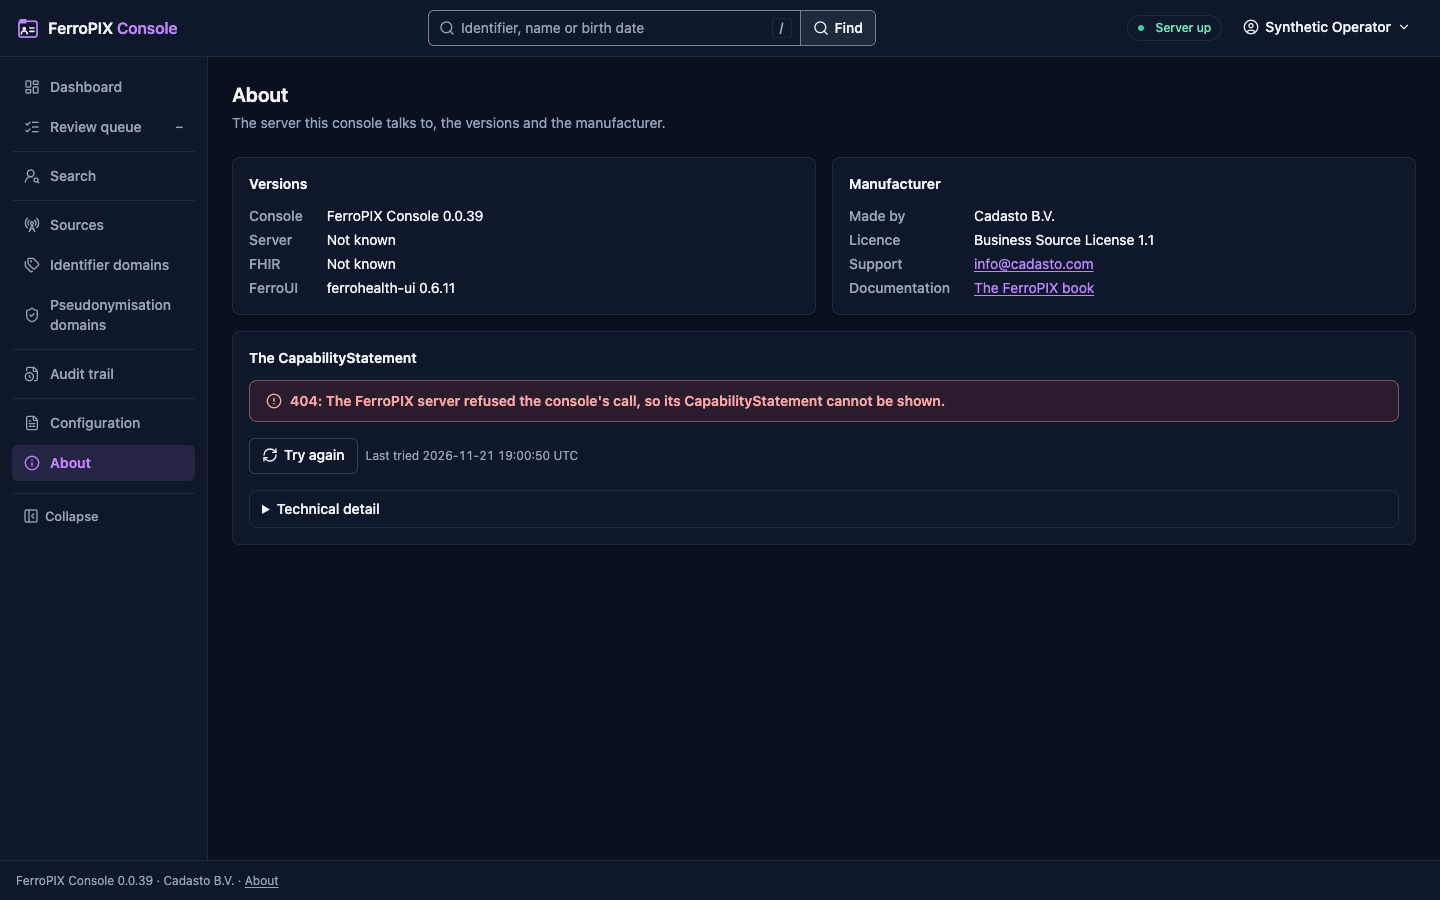
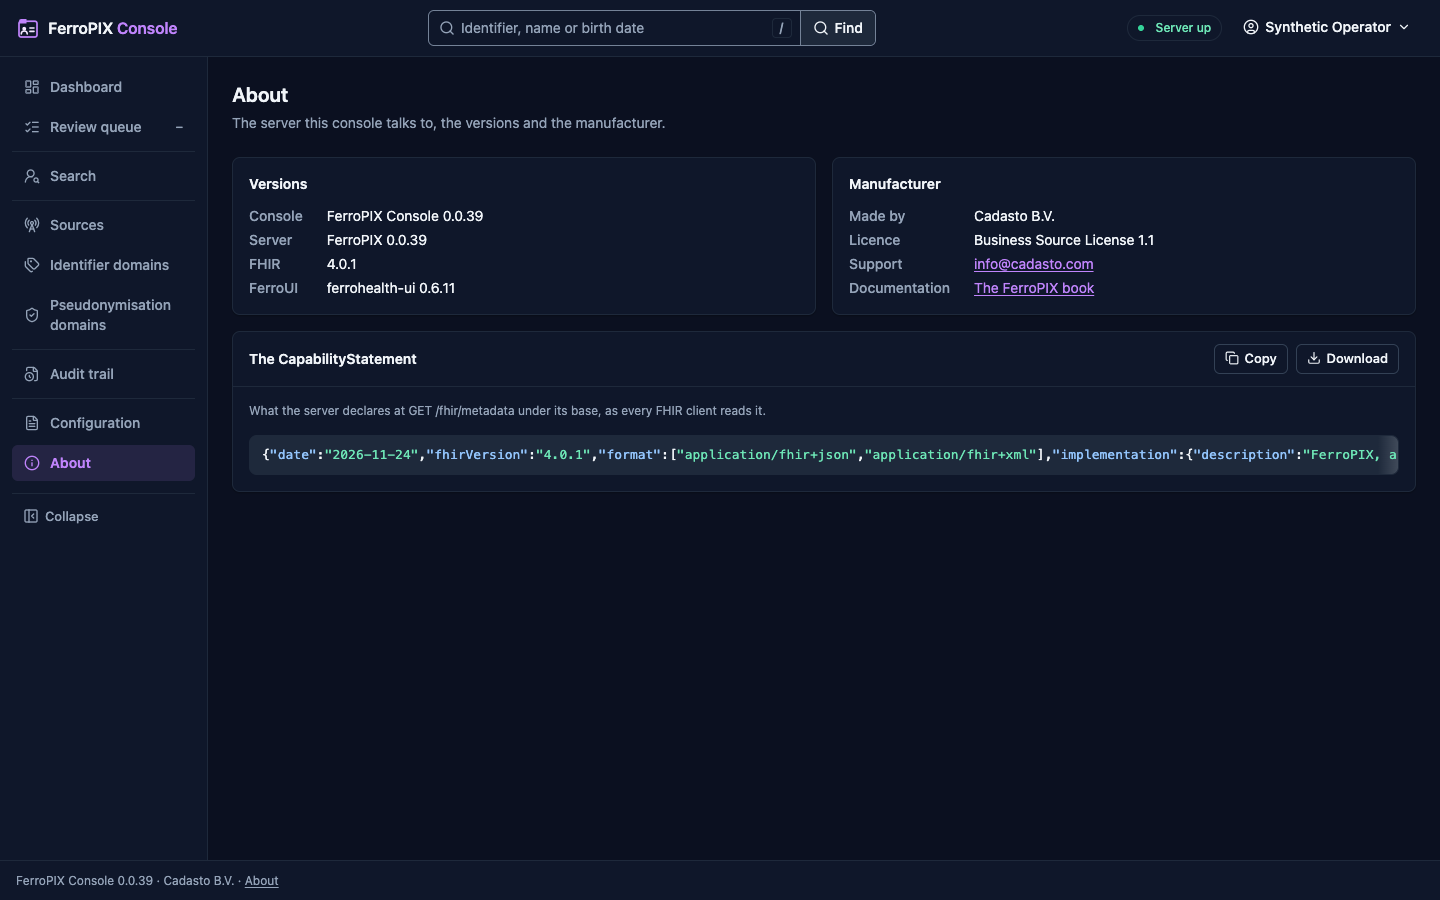
fix(console): draw the CapabilityStatement in the About journey and screenshot (#679) (#790)
* fix(console): draw the CapabilityStatement in the About journey and screenshot (#679)

The journeys' stand-in for the server answered GET /fhir/metadata with 404,
so the book's About screenshot drew the refusal. The stand-in now serves the
statement the server declares, held to the server's by its suite, and a
journey fails when About draws a refusal there.

* fix(console): keep the CapabilityStatement line free of brackets, and keep the declared software name in the pseudo-locale (#679)

Changed region(s): [[0.1562, 0.3733, 0.9688, 0.5289], [0.2188, 0.2489, 0.3125, 0.3111], [0.1875, 0.56, 0.2812, 0.5911]]

diff --git a/tools/ferropix-testkit/tests/it/journeys/stack.rs b/tools/ferropix-testkit/tests/it/journeys/stack.rs
@@ -10,8 +10,10 @@
 //! [`Server::Refusing`] it refuses every other route with `404`, so every
 //! screen draws its refused state; with [`Server::Filled`] it answers the
 //! operator API routes the screens read with the synthetic documents under
-//! `fixtures/operator/`, so every screen draws its filled state. No
-//! specification governs the stack: our own design, after FerroBRIDGE's.
+//! `fixtures/operator/`, and `GET /fhir/metadata` with the server's own
+//! `CapabilityStatement` at the workspace version, so every screen draws its
+//! filled state. No specification governs the stack: our own design, after
+//! FerroBRIDGE's.
 
 use std::collections::BTreeMap;
 
@@ -98,6 +100,20 @@ pub(crate) fn document(name: &str) -> String {
     std::fs::read_to_string(&file).unwrap_or_else(|error| panic!("reading {file}: {error}"))
 }
 
+/// The `CapabilityStatement` the server declares, from
+/// `fixtures/operator/capability-statement.json` (held to the server's by
+/// its suite), naming the workspace version as the server does.
+#[expect(
+    clippy::disallowed_types,
+    reason = "the test seam: the statement is read as a JSON value to set its version"
+)]
+fn capability_statement() -> String {
+    let mut statement: serde_json::Value = serde_json::from_str(&document("capability-statement"))
+        .expect("the capability statement is JSON");
+    statement["software"]["version"] = serde_json::Value::from(env!("CARGO_PKG_VERSION"));
+    statement.to_string()
+}
+
 /// What the stand-in for the FerroPIX server answers.
 #[derive(Debug, Clone, Copy, PartialEq, Eq)]
 pub(crate) enum Server {
@@ -165,6 +181,15 @@ impl Stack {
                     .mount(&server)
                     .await;
             }
+            Mock::given(method("GET"))
+                .and(path("/fhir/metadata"))
+                .respond_with(
+                    ResponseTemplate::new(200)
+                        .insert_header("content-type", "application/fhir+json")
+                        .set_body_string(capability_statement()),
+                )
+                .mount(&server)
+                .await;
         }
         let listener = TcpListener::bind("127.0.0.1:0")
             .await

diff --git a/tools/ferropix-testkit/tests/it/journeys/about.rs b/tools/ferropix-testkit/tests/it/journeys/about.rs
@@ -1,0 +1,54 @@
+// SPDX-FileCopyrightText: Cadasto B.V.
+// SPDX-License-Identifier: BUSL-1.1
+
+//! About draws the server's `CapabilityStatement` (HL7 FHIR R4, the REST
+//! interaction `capabilities`) with the server and FHIR versions it
+//! declares, and no refusal, when the server answers `GET /fhir/metadata`.
+//! No specification governs the console: our own design.
+
+use thirtyfour::prelude::*;
+
+use crate::journeys::browser::with_journey;
+use crate::journeys::journeys_enabled;
+use crate::journeys::sign_in::sign_in;
+use crate::journeys::stack::{Server, Stack};
+
+/// What the page's main content says: one line per finding, empty when
+/// About draws the statement, its two versions and no `Not known`.
+const DRAWN: &str = r"
+const main = document.querySelector('main');
+const text = main.innerText;
+const findings = [];
+if (main.querySelector('a[href=\'/about/capability-statement.json\']') === null) {
+  findings.push('no Download of the CapabilityStatement');
+}
+for (const wanted of arguments[0].split('\n')) {
+  if (!text.includes(wanted)) { findings.push('the page does not say ' + wanted); }
+}
+if (text.includes('Not known')) { findings.push('the page says Not known'); }
+if (main.querySelector('[role=alert]') !== null) { findings.push('the page draws an alert'); }
+return findings.join('\n');
+";
+
+#[tokio::test(flavor = "multi_thread", worker_threads = 2)]
+async fn about_draws_the_capability_statement_the_server_declares() {
+    if !journeys_enabled() {
+        return;
+    }
+    let stack = Stack::start_with(Server::Filled).await;
+    with_journey(async |journey| {
+        sign_in(journey, &stack).await;
+        journey.open(&stack.url("/about")).await;
+        journey.element(By::Css("h1"), "the page's heading").await;
+        let wanted = format!(
+            "FerroPIX {}\n4.0.1\n\"resourceType\"",
+            env!("CARGO_PKG_VERSION")
+        );
+        let findings = journey
+            .evaluate_with(DRAWN, wanted)
+            .await
+            .expect("the page reads its content");
+        assert!(findings.is_empty(), "About: {findings}");
+    })
+    .await;
+}

diff --git a/app/ferropix-server/tests/it/capability.rs b/app/ferropix-server/tests/it/capability.rs
@@ -530,3 +530,34 @@ async fn the_statement_renders_in_json_and_xml_and_refuses_any_other_format_406(
         assert_eq!("error", outcome["issue"][0]["severity"], "{uri}");
     }
 }
+
+/// The console journeys' copy of the statement, which their stand-in for
+/// the server answers `GET /fhir/metadata` with.
+const JOURNEY_STATEMENT: &str = concat!(
+    env!("CARGO_MANIFEST_DIR"),
+    "/../../tools/ferropix-testkit/fixtures/operator/capability-statement.json"
+);
+
+/// The issuer the journeys' copy names in place of the test issuer.
+const JOURNEY_ISSUER: &str = "http://localhost:8180";
+
+#[tokio::test]
+async fn the_console_journeys_serve_the_statement_the_server_declares() {
+    let issuer = Issuer::start().await;
+    let secrets = Secrets::new();
+    let (app, _, _spool) = application(settings(&issuer, &secrets)).await;
+    let (status, _, text) = get(&app, "/fhir/metadata", None).await;
+    assert_eq!(StatusCode::OK, status);
+    let journeys: Value = serde_json::from_str(
+        &std::fs::read_to_string(JOURNEY_STATEMENT).expect("the journeys' statement reads"),
+    )
+    .expect("the journeys' statement is JSON");
+    let mut served: Value = serde_json::from_str(&text.replace(&issuer.uri(), JOURNEY_ISSUER))
+        .expect("the served statement is JSON");
+    served["date"] = journeys["date"].clone();
+    served["software"]["version"] = journeys["software"]["version"].clone();
+    assert_eq!(
+        journeys, served,
+        "regenerate tools/ferropix-testkit/fixtures/operator/capability-statement.json from the served statement"
+    );
+}

diff --git a/tools/ferropix-testkit/tests/it/journeys/pseudo_locale.rs b/tools/ferropix-testkit/tests/it/journeys/pseudo_locale.rs
@@ -70,9 +70,11 @@ return Array.from(found).join('\n');
 /// stretched: the maker's legal name, the steward's name, which the
 /// provider sent and the console draws as it came, and the data the filled
 /// stand-in serves, drawn as the server sent it: names, a comparator's
-/// name and the scheme of an identifier system.
-const KEPT: [&str; 16] = [
+/// name, the scheme of an identifier system and the software name the
+/// server's `CapabilityStatement` declares.
+const KEPT: [&str; 17] = [
     "Cadasto B.V.",
+    "FerroPIX",
     STEWARD,
     "Ada Proefsma",
     "Synthetic hospital",

diff --git a/tools/ferropix-testkit/tests/it/journeys/mod.rs b/tools/ferropix-testkit/tests/it/journeys/mod.rs
@@ -23,6 +23,7 @@
 //! specification governs the journeys: our own design, after FerroBRIDGE's,
 //! FerroFED's and FerroTERM's.
 
+mod about;
 mod accessibility;
 mod browser;
 mod chromedriver;

diff --git a/changelog.d/679-about-capability-statement.fixed.md b/changelog.d/679-about-capability-statement.fixed.md
@@ -1,0 +1,5 @@
+- The book's About screenshot of the operator console draws the server's
+  `CapabilityStatement` with the server and FHIR versions it declares. The
+  journeys' stand-in for the server now answers `GET /fhir/metadata` with
+  the statement the server serves, and a journey fails when About draws a
+  refusal there.
